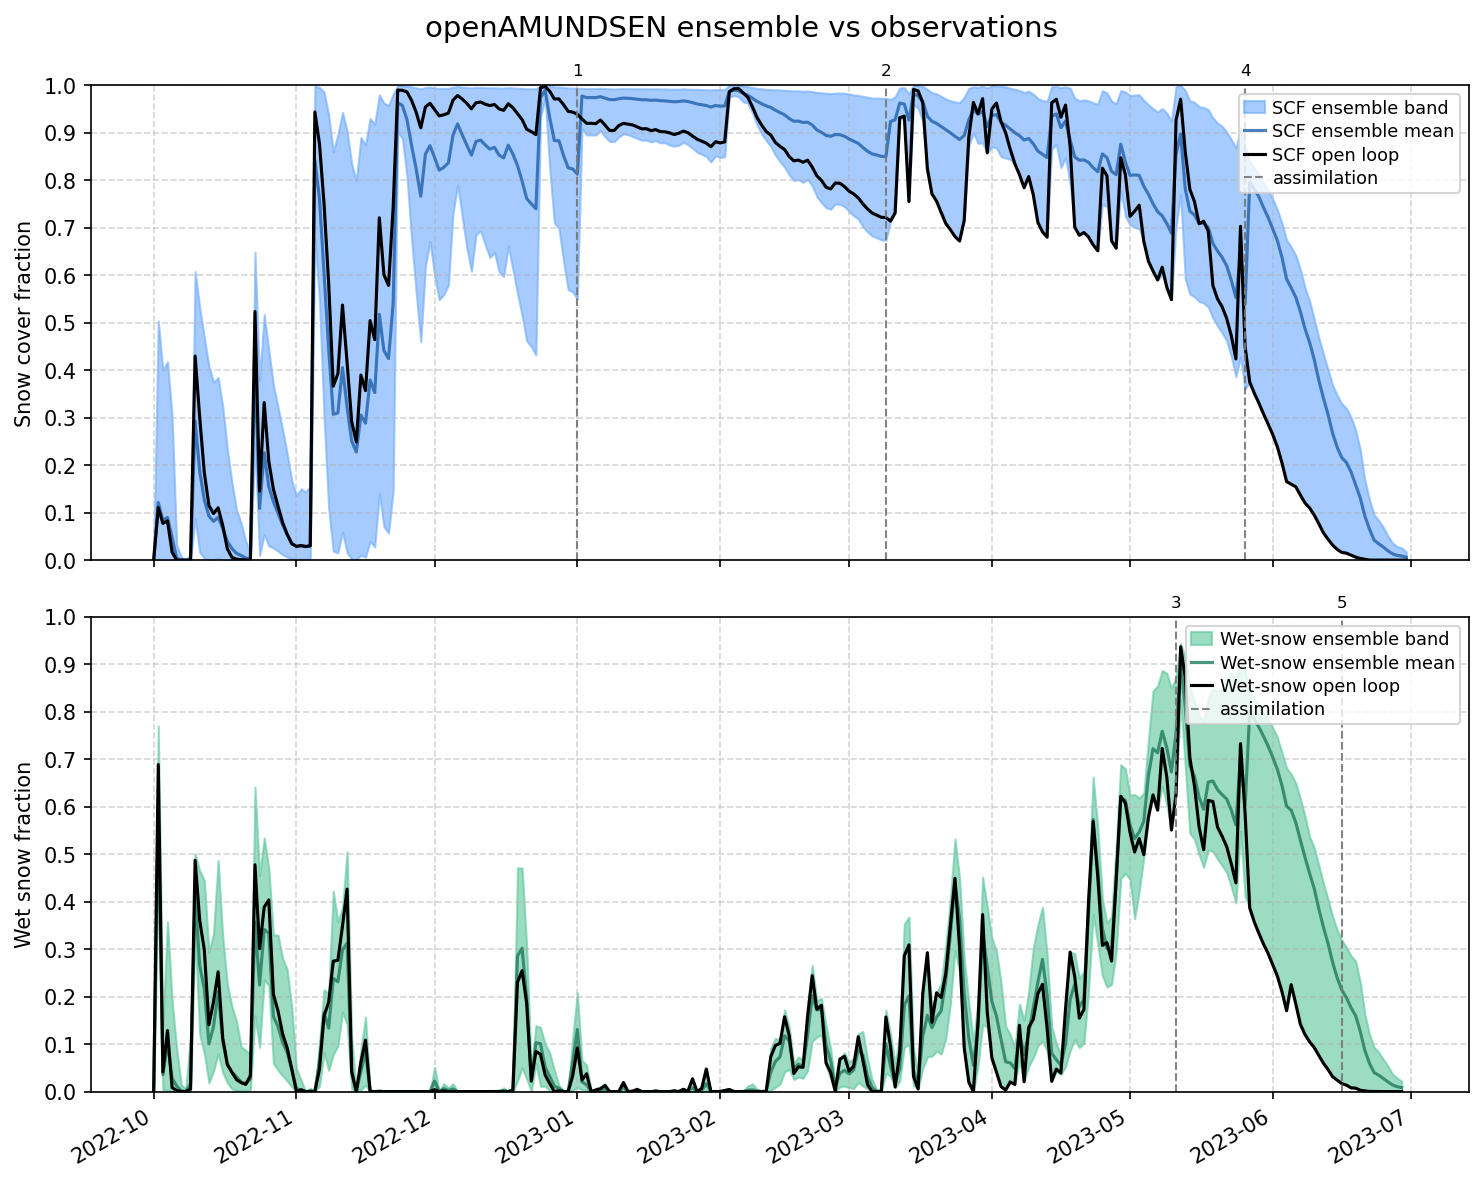
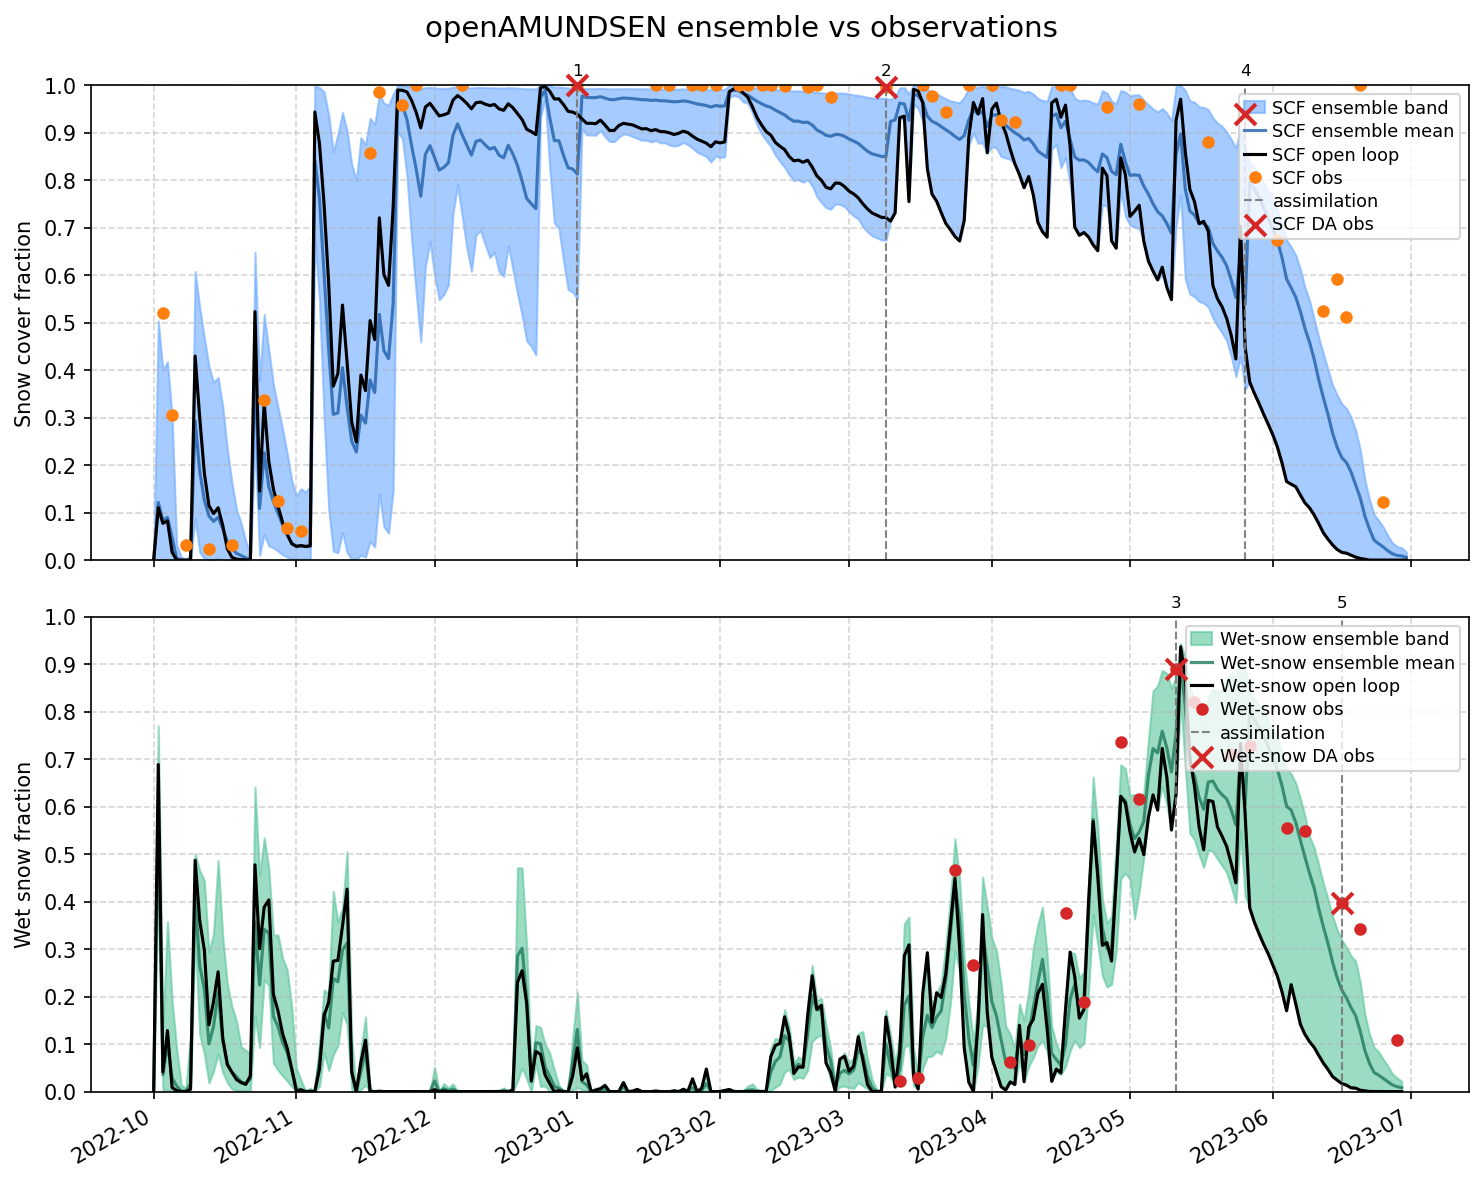
Fix fraction plot obs summary path fallback

diff --git a/openamundsen_da/observer/plot_fractions.py b/openamundsen_da/observer/plot_fractions.py
@@ -64,15 +64,24 @@ def _load_fraction(path: Path, value_col: str) -> Optional[pd.DataFrame]:
     return df[cols].dropna(subset=[value_col]).sort_values("date")
 
 
-def _default_obs_path(project_dir: Path, setup_name: str, filename: str) -> Path:
-    """Return obs path, with basic dash/underscore fallback on setup name."""
-    candidates = [project_dir / "obs" / setup_name / filename]
+def _default_obs_path(setup_dir: Path, setup_name: str, filename: str) -> Path:
+    """Return obs summary path with support for legacy and current layouts.
+
+    Supported layouts:
+    - <setup>/obs/<setup_name>/<file>                (legacy/simple)
+    - <setup>/obs/summaries/<project_name>/<file>    (current tutorial/example)
+    """
+    project_name = setup_name
+    candidates = [
+        setup_dir / "obs" / setup_name / filename,
+        setup_dir / "obs" / "summaries" / project_name / filename,
+    ]
     if "-" in setup_name:
         alt = setup_name.replace("-", "_")
-        candidates.append(project_dir / "obs" / alt / filename)
+        candidates.append(setup_dir / "obs" / alt / filename)
     elif "_" in setup_name:
         alt = setup_name.replace("_", "-")
-        candidates.append(project_dir / "obs" / alt / filename)
+        candidates.append(setup_dir / "obs" / alt / filename)
     for cand in candidates:
         if cand.is_file():
             return cand
@@ -396,4 +405,3 @@ def cli_main(argv: list[str] | None = None, *, configure_logger: bool = True) ->
 
 if __name__ == "__main__":  # pragma: no cover
     raise SystemExit(cli_main())
-
